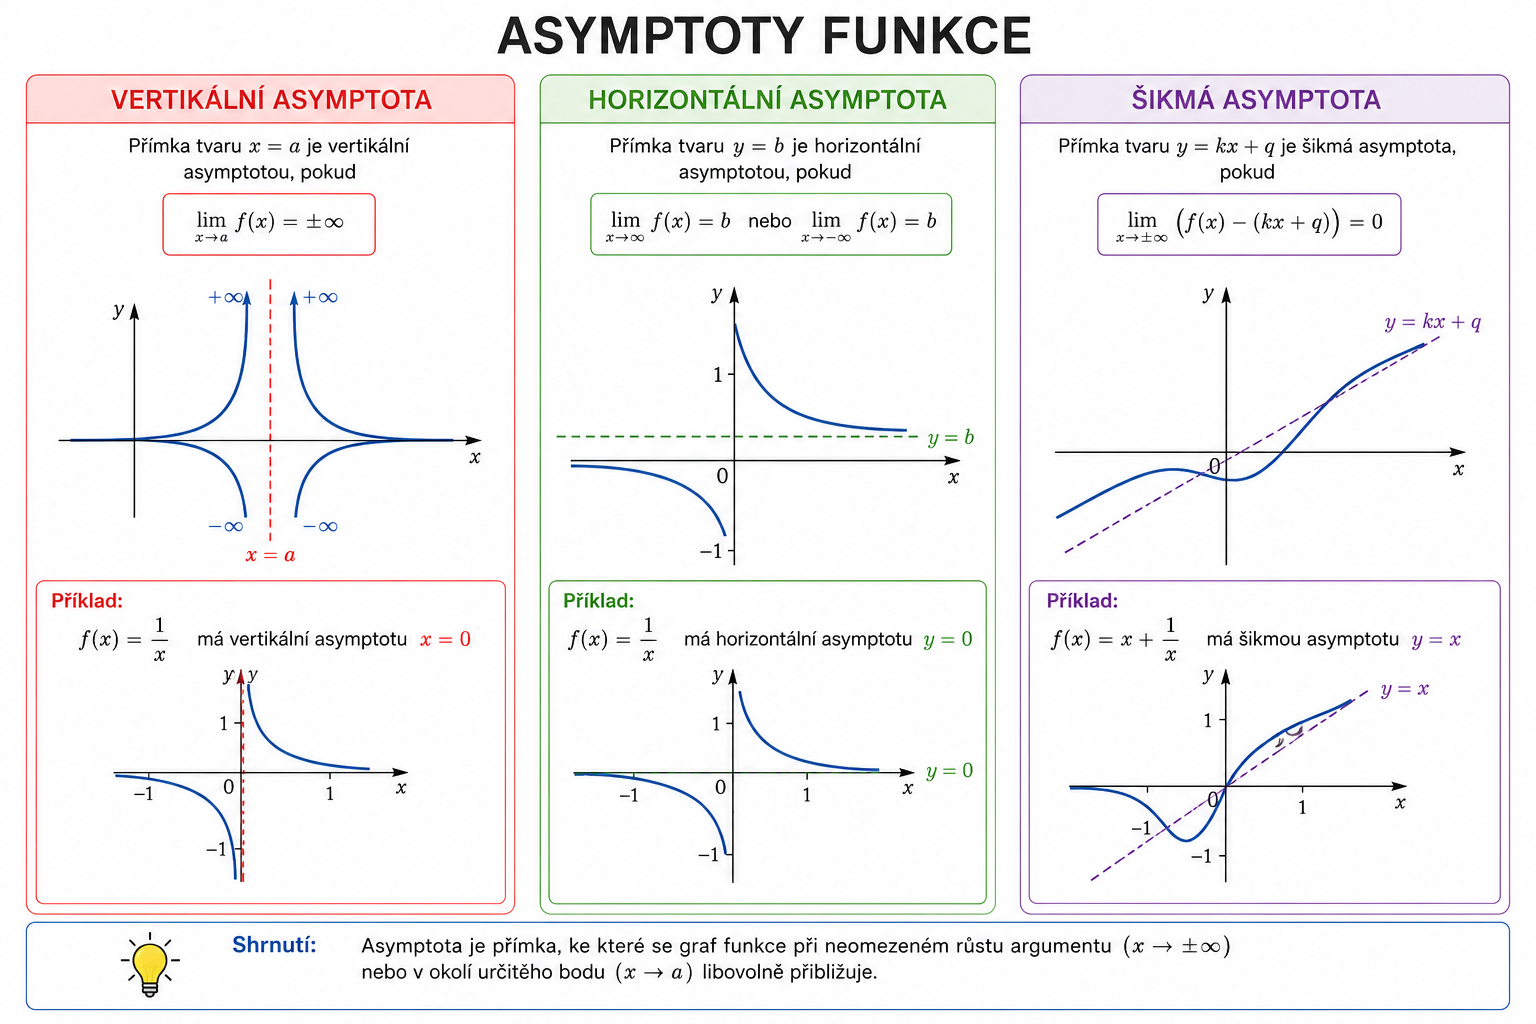
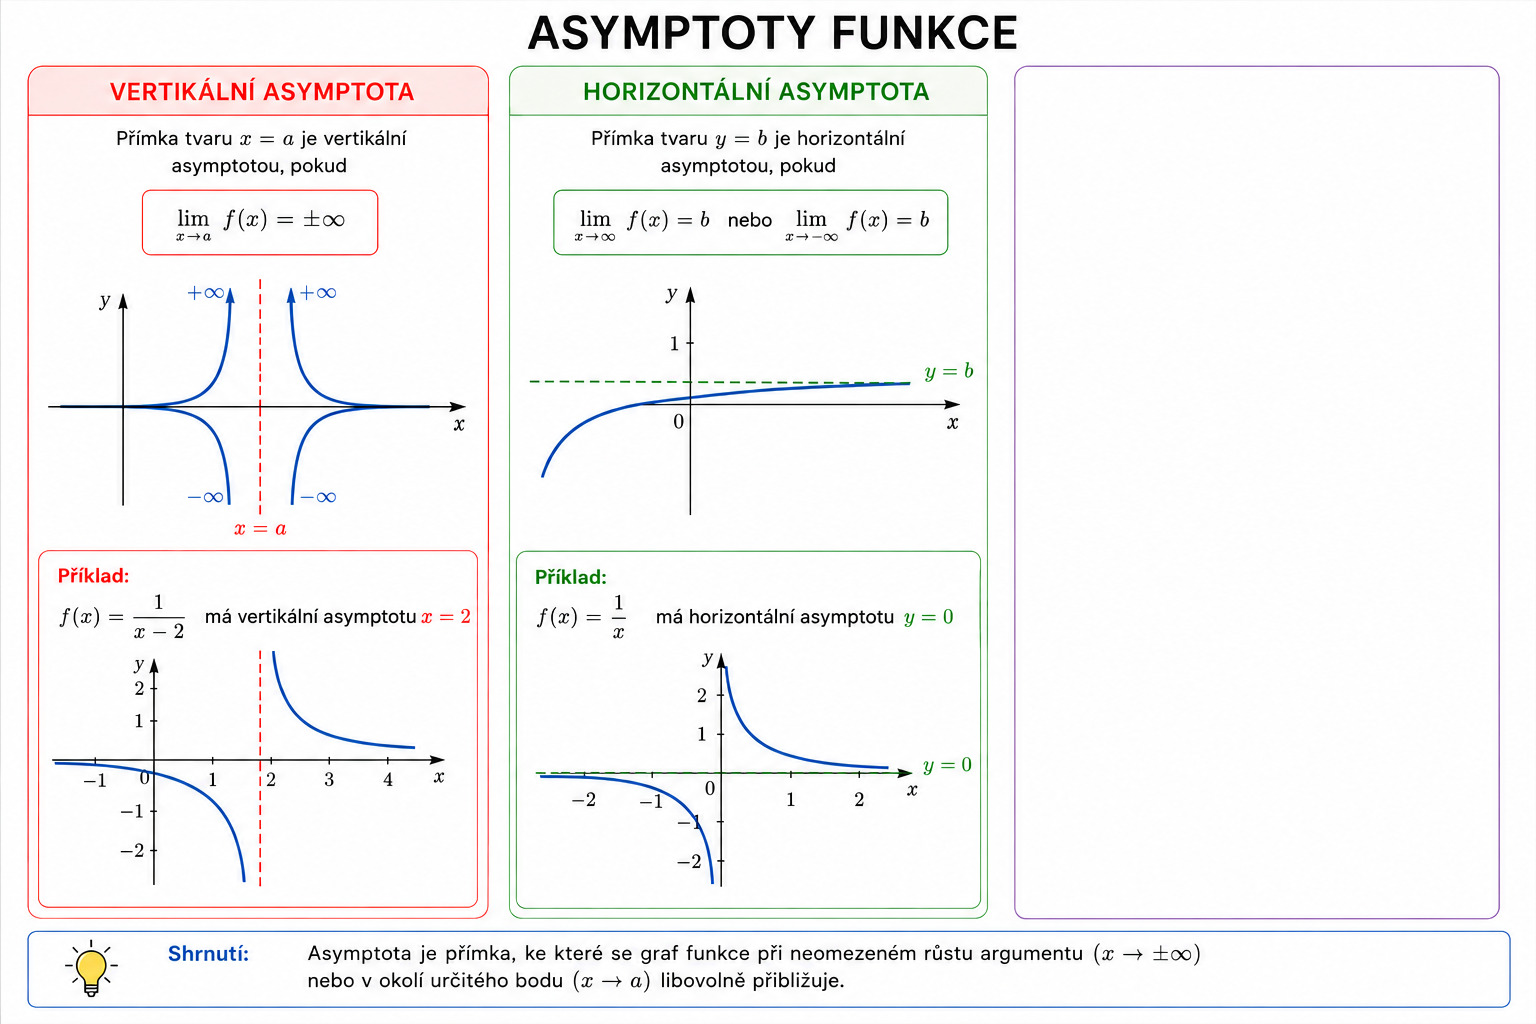
Remove one asymptote type

diff --git a/01 - SZZTP - 15m ústní/05/README.md b/01 - SZZTP - 15m ústní/05/README.md
@@ -278,24 +278,6 @@ $$
 \lim_{x \to -\infty} f(x) = b
 $$
 
-#### Šikmá asymptota
-Přímka ve tvaru:
-
-$$
-y = kx + q
-$$
-
-je šikmou asymptotou funkce, pokud platí:
-
-$$
-\lim_{x \to \pm\infty}
-\left(
-f(x) - (kx+q)
-\right)
-=
-0
-$$
-
 ### Limita
 - číslo, ke kterému se funkce v nějakém bodě blíží
 - popisuje chování funkce v okolí daného bodu, nikoliv nutně přímo v tomto bodě
